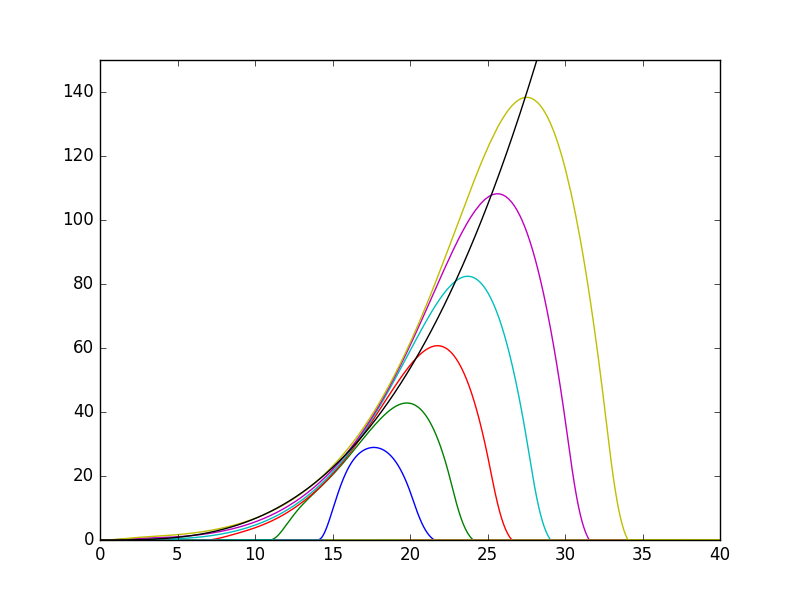
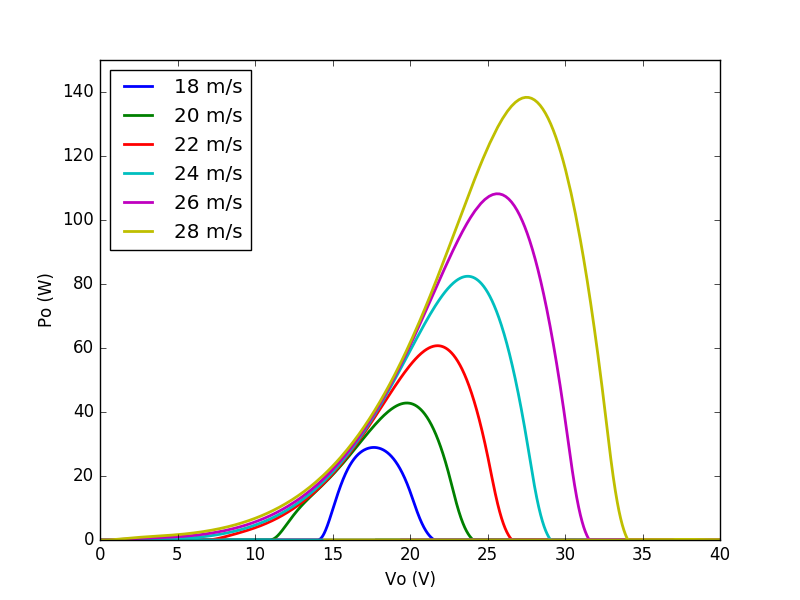
updated plot script and figures

diff --git a/plots/plot.py b/plots/plot.py
@@ -8,14 +8,22 @@ def plot_simple_turbine():
     for i in range(1,7):
         df = pd.read_csv(folder + str(i) + '.csv')
         df[df < 0]  = 0
-        plt.plot(df['Vo'], df['Pe'])
+        label = str(int(df.head(1)['S2.v_ms'])) + ' m/s'
+        plt.plot(df['Vo'], df['Pe'], label = label, linewidth=2)
 
-    x = np.arange(0.0, 40.0, 0.1)
-    y = 0.0067 * (x**3) # equation fitted in matlab by least squares
-    plt.plot(x, y)
+    # fig.suptitle('test title')
+    plt.xlabel('Vo (V)')
+    plt.ylabel('Po (W)')
+    plt.legend(loc="upper left")
     axes = plt.gca()
     axes.set_ylim([0,150])
     plt.savefig(out_folder + 'simple-turbine-power-x-voltage.png')
+
+    x = np.arange(0.0, 40.0, 0.1)
+    y = 0.0067 * (x**3) # equation fitted in matlab by least squares
+    plt.plot(x, y, label = 'MPP')
+    plt.legend(loc="upper left")
+    plt.savefig(out_folder + 'simple-turbine-cubic-fitted.png')
 
 
 plot_simple_turbine()
